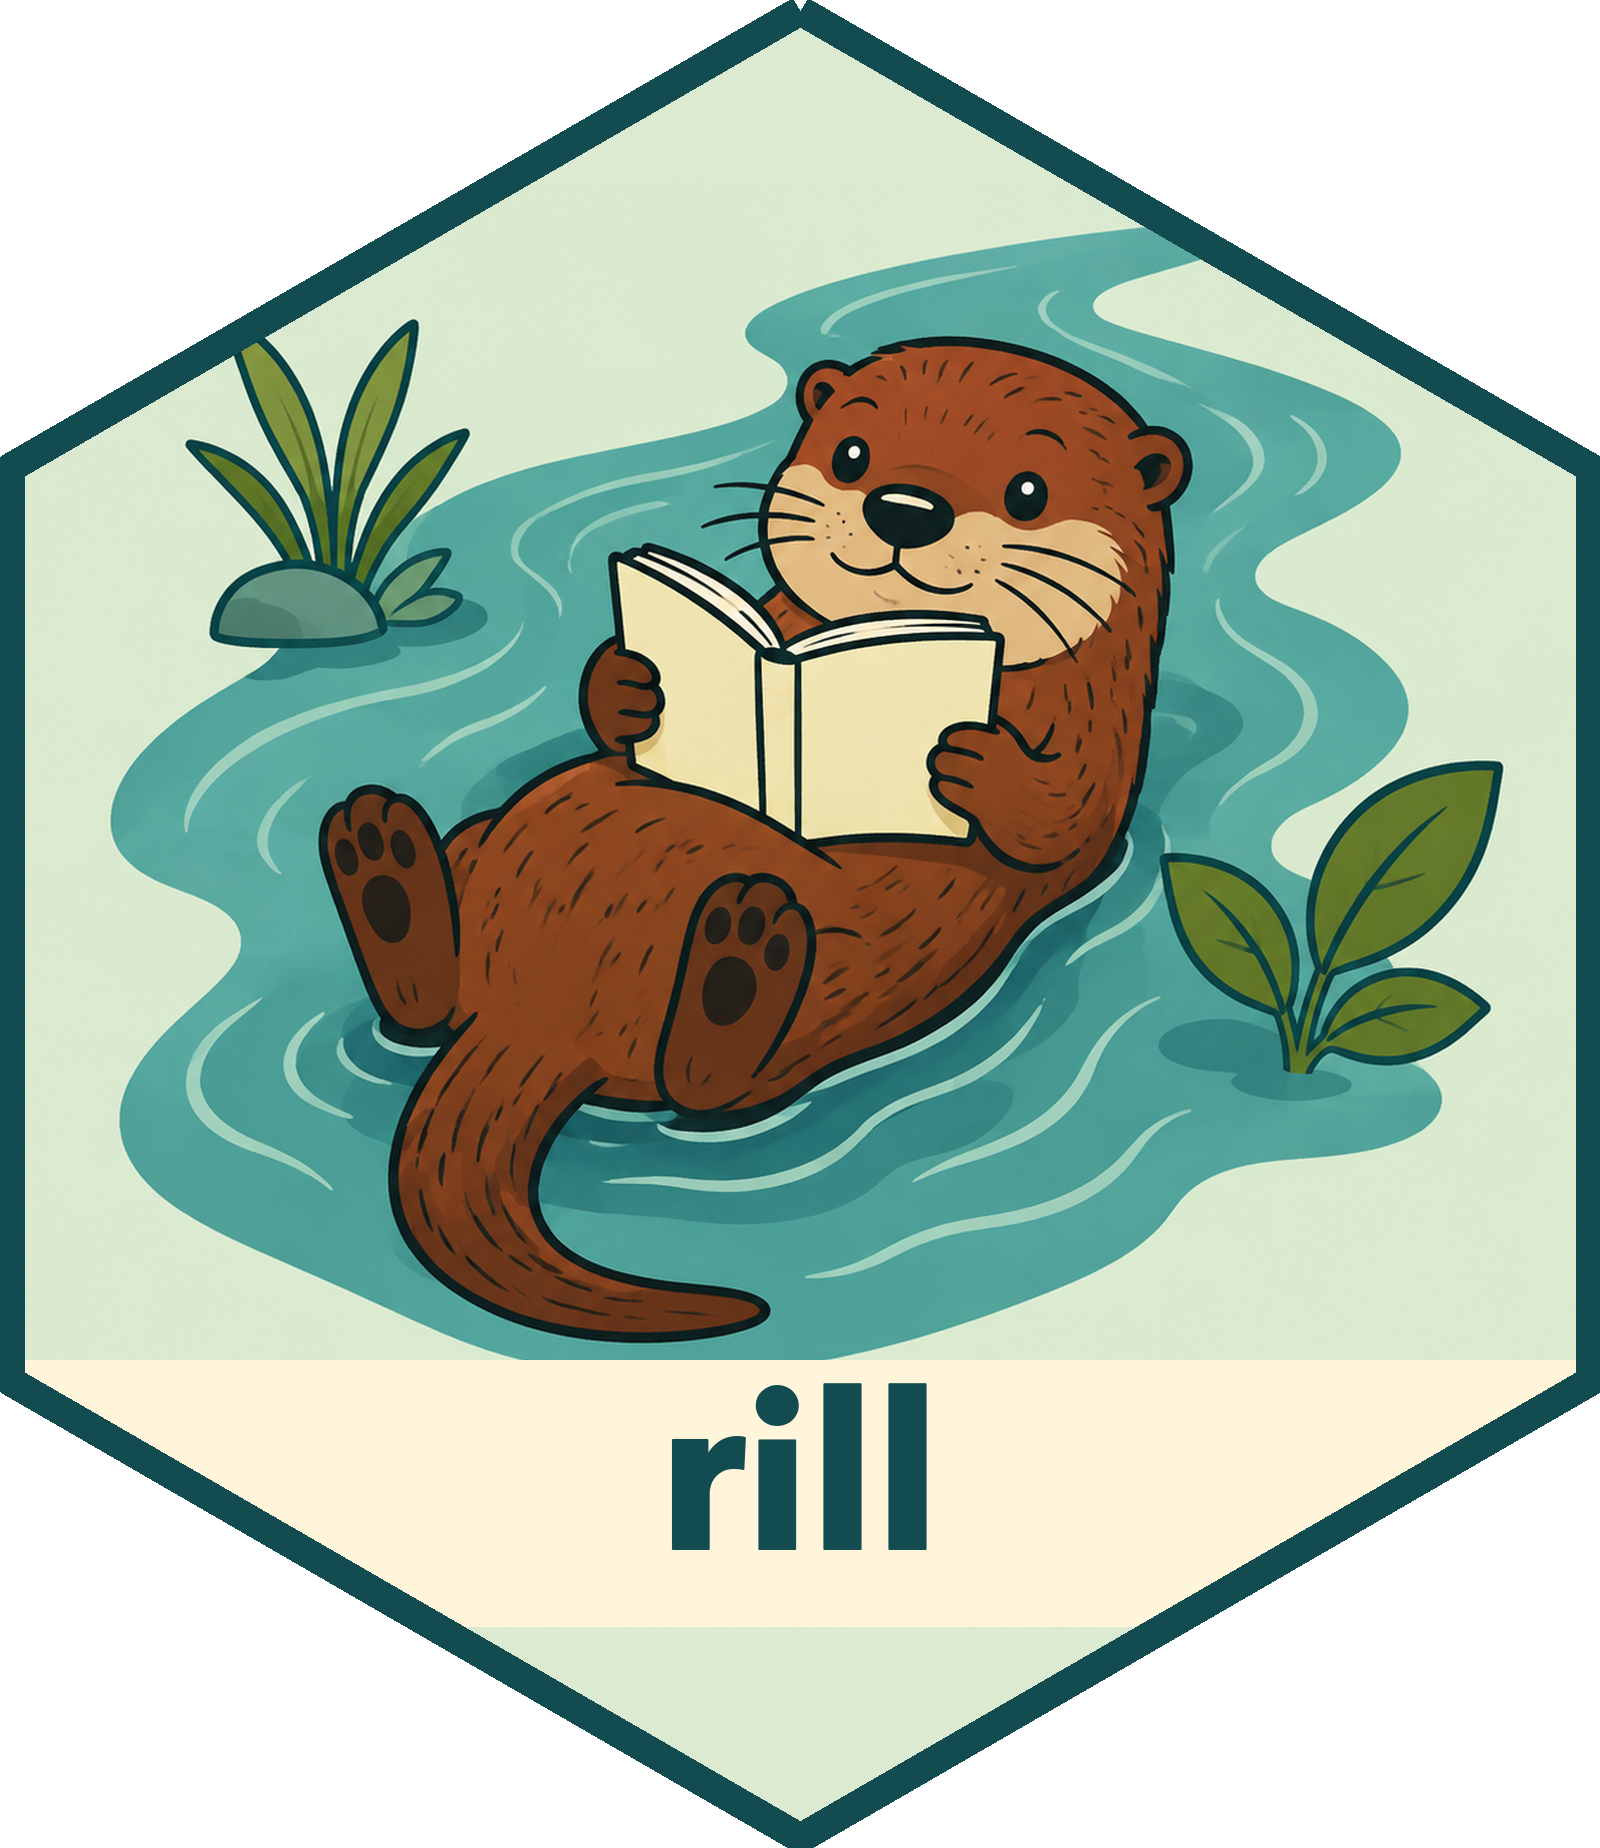
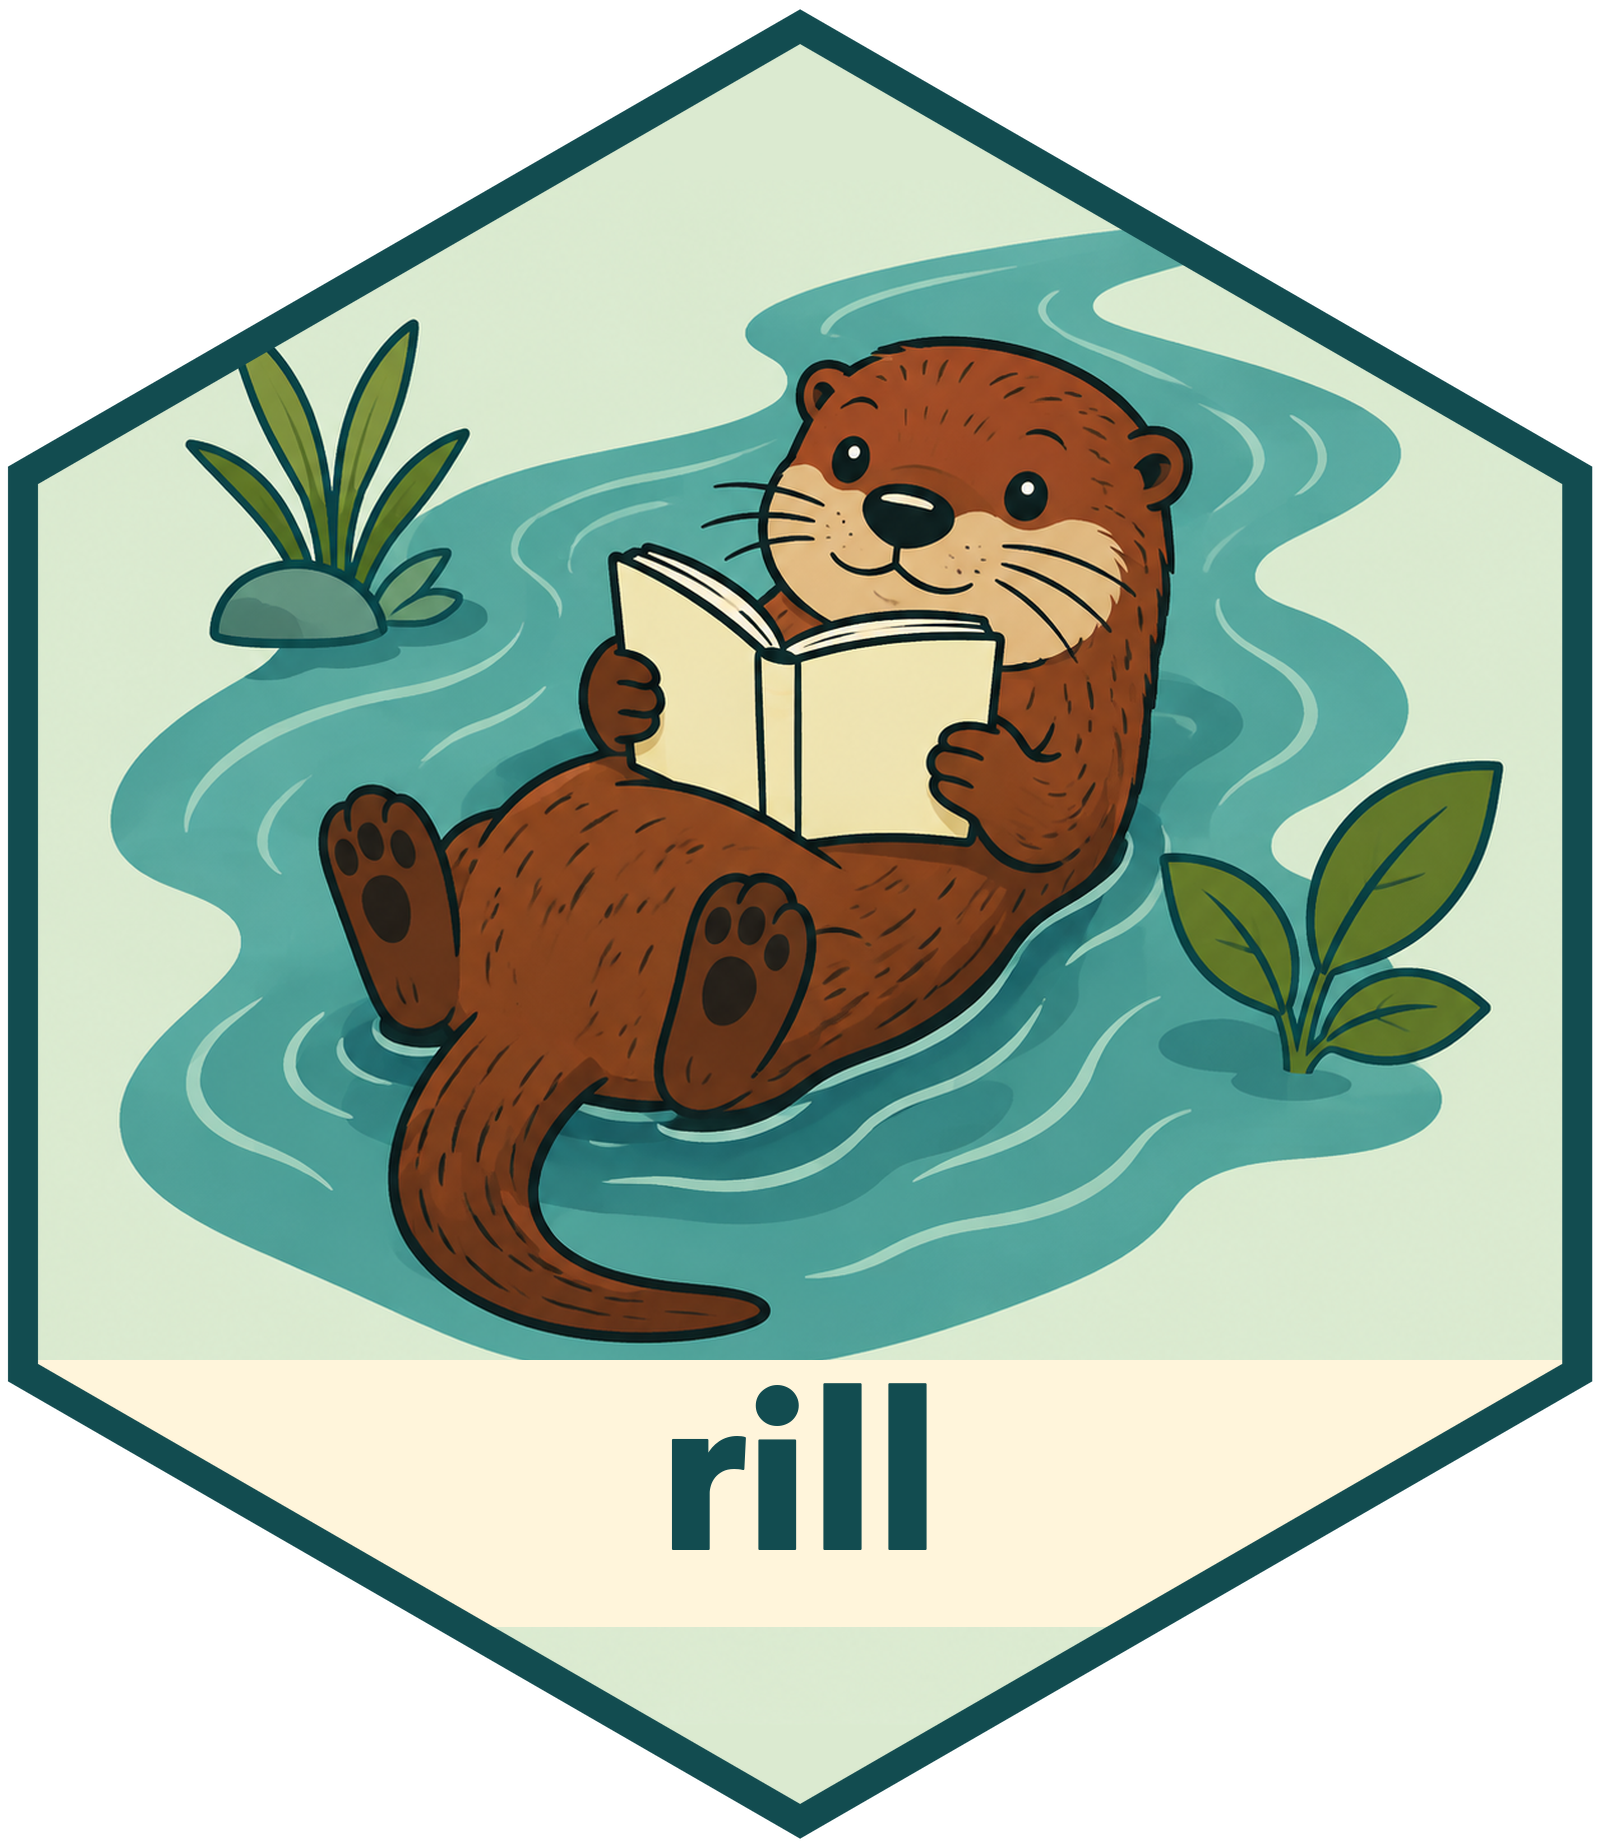
Fix hex sticker border geometry and corner joins

Changed region(s): [[0.0, 0.0, 1.0, 1.0]]

diff --git a/tools/hex-sticker/render.py b/tools/hex-sticker/render.py
@@ -1,6 +1,7 @@
 from pathlib import Path
 from PIL import Image, ImageDraw, ImageFont, ImageStat, ImageChops
 import argparse
+import math
 
 p = argparse.ArgumentParser()
 p.add_argument('source')
@@ -31,12 +32,25 @@ try:
 except OSError:
     p.error('Cannot load font. Pass --font /path/to/bold-font.ttf and, for a font collection, --font-index N. The default Avenir Next font is available on macOS.')
 draw.text((W/2, 1480), args.name, font=font, anchor='mm', fill=args.ink, stroke_width=1)
-outer = [(W/2, 10), (W-10, H/4+5), (W-10, H*3/4-5), (W/2, H-10), (10, H*3/4-5), (10, H/4+5)]
-mask = Image.new('L', (W, H), 0)
-ImageDraw.Draw(mask).polygon(outer, fill=255)
-canvas.putalpha(mask)
-draw = ImageDraw.Draw(canvas)
-draw.line(outer+[outer[0]], fill=args.ink, width=30, joint='curve')
+# A ring between concentric regular hexagons gives every edge the same
+# perpendicular thickness and closes all six corners without stroke clipping.
+radius = min((W - 16) / math.sqrt(3), (H - 16) / 2)
+inner_radius = radius - 30 / math.cos(math.pi / 6)
+
+def hex_mask(r):
+    scale = 4
+    mask = Image.new('L', (W * scale, H * scale), 0)
+    points = [
+        ((W / 2 + r * math.sin(i * math.pi / 3)) * scale,
+         (H / 2 - r * math.cos(i * math.pi / 3)) * scale)
+        for i in range(6)
+    ]
+    ImageDraw.Draw(mask).polygon(points, fill=255)
+    return mask.resize((W, H), Image.Resampling.LANCZOS)
+
+border = Image.new('RGBA', (W, H), args.ink)
+canvas = Image.composite(canvas, border, hex_mask(inner_radius))
+canvas.putalpha(hex_mask(radius))
 out = Path(args.output)
 out.parent.mkdir(parents=True, exist_ok=True)
 canvas.save(out, dpi=(600,600))

diff --git a/tools/hex-sticker/test-assets.py b/tools/hex-sticker/test-assets.py
@@ -17,3 +17,17 @@ app_icon = root / 'inst/app/www/apple-touch-icon.png'
 if app_icon.exists():
     assert Image.open(app_icon).convert('RGBA').getchannel('A').getextrema() == (255, 255)
 print('Icon dimensions, opaque touch icons, and full-resolution output verified.')
+
+# The border must fit inside the raster rather than be clipped at the apex
+# or vertical sides. These bounds failed for the original stroked outline.
+sticker = Image.open(root / 'man/figures/hex-sticker.png').convert('RGBA')
+alpha = sticker.getchannel('A')
+left, top, right, bottom = alpha.getbbox()
+assert min(left, top, sticker.width - right, sticker.height - bottom) >= 4
+ink = sticker.getpixel((10, sticker.height // 2))[:3]
+# Both pointed joins have an uninterrupted ink center, with no open seam.
+for y in range(15, 40):
+    for row in (y, sticker.height - y):
+        pixel = sticker.getpixel((sticker.width // 2, row))
+        assert pixel[:3] == ink and pixel[3] == 255, (row, pixel)
+print('Unclipped border and closed top/bottom joins verified.')
